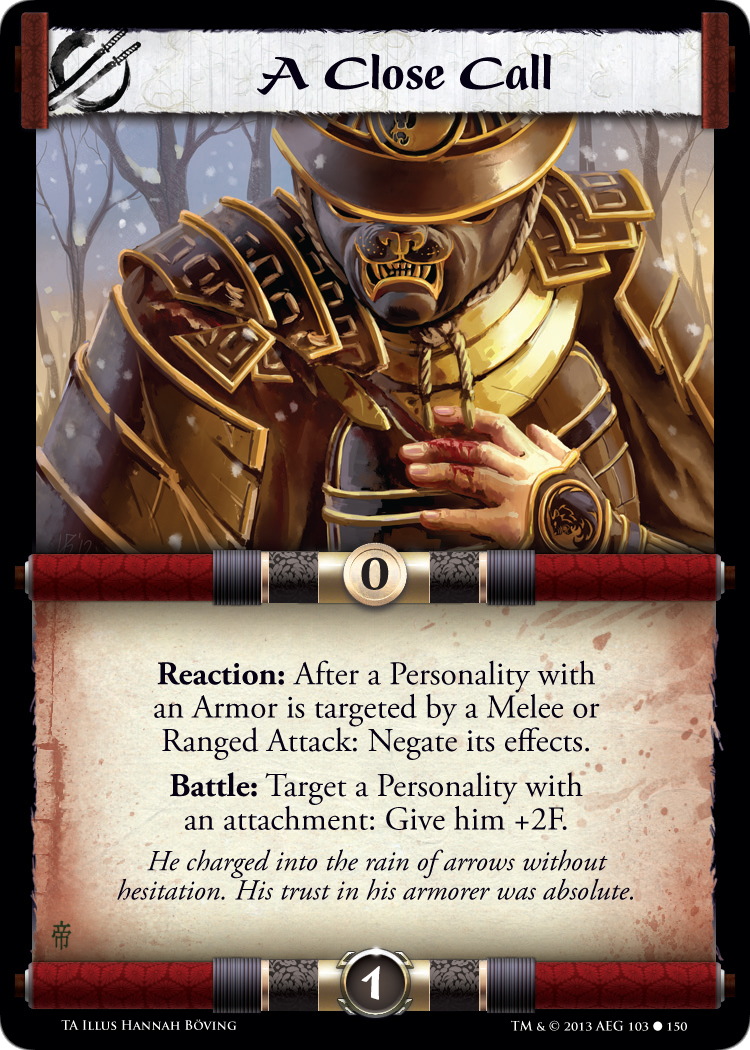
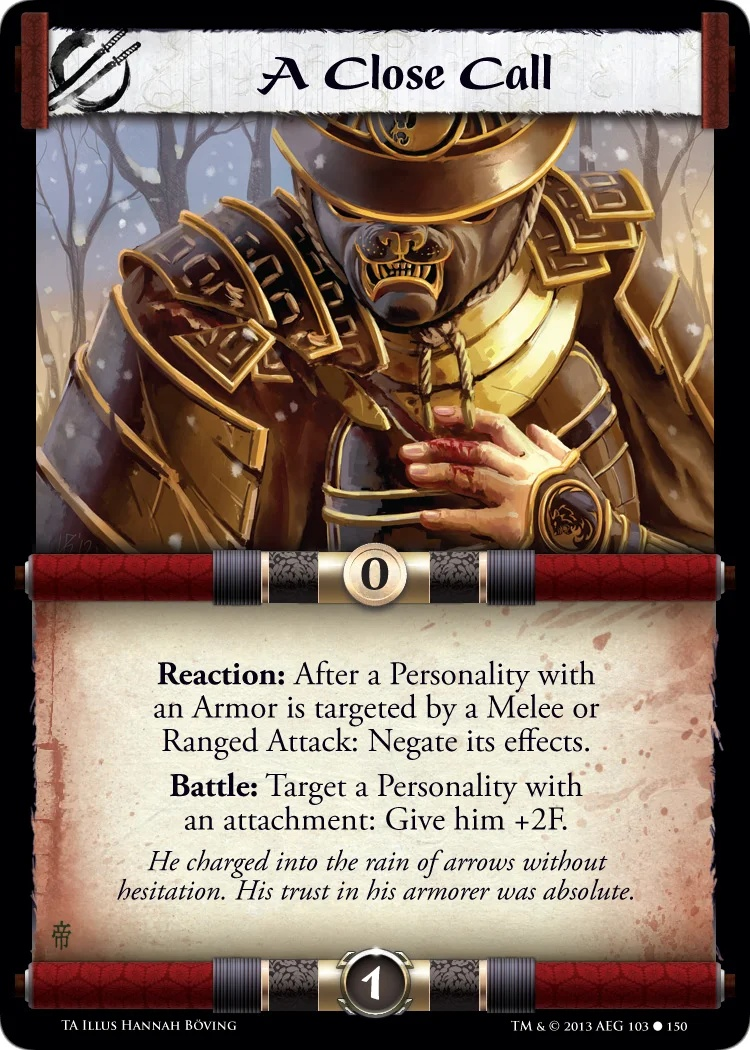
Update code references and art for the Strategy wave 11 rename
Completes the previous commit: CardCatalog.cs/PublishedContent.cs/
L5R.Core.csproj now reference StrategyWave11/strategy-wave-11 throughout,
the regenerated JSON's own Profile field matches, the decision doc's wave
number is corrected, and the real card art (now that the scan cache is
available in this worktree) replaces the placeholder.

Verified: dotnet run --project tests/L5R.Core.Tests, 178/178 core, 52/52
published, 9/9 deck-format, 10/10 deck-workshop passed.

diff --git a/src/L5R.Core/CardCatalog.cs b/src/L5R.Core/CardCatalog.cs
@@ -214,6 +214,6 @@ public static class CardCatalog
         // definitions. Every id it references already exists via Snapshot/the waves below (and stays
         // there per policy -- cards are never removed except by explicit direction), so adding it here
         // would only risk a duplicate-key conflict, never add real coverage.
-        return cards.Concat(PublishedContent.Snapshot.Cards).Concat(PublishedContent.VanillaWave1.Cards).Concat(PublishedContent.StrongholdWave1.Cards).Concat(PublishedContent.StrongholdWave2.Cards).Concat(PublishedContent.StrongholdWave3.Cards).Concat(PublishedContent.PersonalityWave1.Cards).Concat(PublishedContent.PersonalityWave2.Cards).Concat(PublishedContent.PersonalityWave3.Cards).Concat(PublishedContent.FollowerWave1.Cards).Concat(PublishedContent.PersonalityWave4.Cards).Concat(PublishedContent.PersonalityWave5.Cards).Concat(PublishedContent.StrategyWave1.Cards).Concat(PublishedContent.FollowerWave2.Cards).Concat(PublishedContent.FollowerWave3.Cards).Concat(PublishedContent.FollowerWave4.Cards).Concat(PublishedContent.FollowerWave5.Cards).Concat(PublishedContent.ItemWave1.Cards).Concat(PublishedContent.StrategyWave2.Cards).Concat(PublishedContent.PersonalityWave6.Cards).Concat(PublishedContent.FollowerWave6.Cards).Concat(PublishedContent.PersonalityWave7.Cards).Concat(PublishedContent.PersonalityWave8.Cards).Concat(PublishedContent.StrategyWave3.Cards).Concat(PublishedContent.FollowerWave7.Cards).Concat(PublishedContent.FollowerWave8.Cards).Concat(PublishedContent.ItemWave2.Cards).Concat(PublishedContent.StrategyWave4.Cards).Concat(PublishedContent.StrategyWave5.Cards).Concat(PublishedContent.PersonalityWave9.Cards).Concat(PublishedContent.PersonalityWave10.Cards).Concat(PublishedContent.PersonalityWave11.Cards).Concat(PublishedContent.PersonalityWave12.Cards).Concat(PublishedContent.PersonalityWave13.Cards).Concat(PublishedContent.RingWave1.Cards).Concat(PublishedContent.PersonalityWave14.Cards).Concat(PublishedContent.FollowerWave9.Cards).Concat(PublishedContent.PersonalityWave15.Cards).Concat(PublishedContent.PersonalityWave16.Cards).Concat(PublishedContent.EventWave1.Cards).Concat(PublishedContent.RegionWave1.Cards).Concat(PublishedContent.CelestialWave1.Cards).Concat(PublishedContent.SpellWave1.Cards).Concat(PublishedContent.PersonalityWave17.Cards).Concat(PublishedContent.EventWave2.Cards).Concat(PublishedContent.StrategyWave6.Cards).Concat(PublishedContent.PersonalityWave18.Cards).Concat(PublishedContent.HoldingWave1.Cards).Concat(PublishedContent.ItemWave3.Cards).Concat(PublishedContent.RegionWave2.Cards).Concat(PublishedContent.SpellWave2.Cards).Concat(PublishedContent.StrategyWave7.Cards).Concat(PublishedContent.StrategyWave8.Cards).Concat(PublishedContent.StrategyWave9.Cards).Concat(PublishedContent.FollowerWave10.Cards).Concat(PublishedContent.FollowerWave11.Cards).Concat(PublishedContent.StrategyWave10.Cards).ToDictionary(c => c.Id, StringComparer.Ordinal);
+        return cards.Concat(PublishedContent.Snapshot.Cards).Concat(PublishedContent.VanillaWave1.Cards).Concat(PublishedContent.StrongholdWave1.Cards).Concat(PublishedContent.StrongholdWave2.Cards).Concat(PublishedContent.StrongholdWave3.Cards).Concat(PublishedContent.PersonalityWave1.Cards).Concat(PublishedContent.PersonalityWave2.Cards).Concat(PublishedContent.PersonalityWave3.Cards).Concat(PublishedContent.FollowerWave1.Cards).Concat(PublishedContent.PersonalityWave4.Cards).Concat(PublishedContent.PersonalityWave5.Cards).Concat(PublishedContent.StrategyWave1.Cards).Concat(PublishedContent.FollowerWave2.Cards).Concat(PublishedContent.FollowerWave3.Cards).Concat(PublishedContent.FollowerWave4.Cards).Concat(PublishedContent.FollowerWave5.Cards).Concat(PublishedContent.ItemWave1.Cards).Concat(PublishedContent.StrategyWave2.Cards).Concat(PublishedContent.PersonalityWave6.Cards).Concat(PublishedContent.FollowerWave6.Cards).Concat(PublishedContent.PersonalityWave7.Cards).Concat(PublishedContent.PersonalityWave8.Cards).Concat(PublishedContent.StrategyWave3.Cards).Concat(PublishedContent.FollowerWave7.Cards).Concat(PublishedContent.FollowerWave8.Cards).Concat(PublishedContent.ItemWave2.Cards).Concat(PublishedContent.StrategyWave4.Cards).Concat(PublishedContent.StrategyWave5.Cards).Concat(PublishedContent.PersonalityWave9.Cards).Concat(PublishedContent.PersonalityWave10.Cards).Concat(PublishedContent.PersonalityWave11.Cards).Concat(PublishedContent.PersonalityWave12.Cards).Concat(PublishedContent.PersonalityWave13.Cards).Concat(PublishedContent.RingWave1.Cards).Concat(PublishedContent.PersonalityWave14.Cards).Concat(PublishedContent.FollowerWave9.Cards).Concat(PublishedContent.PersonalityWave15.Cards).Concat(PublishedContent.PersonalityWave16.Cards).Concat(PublishedContent.EventWave1.Cards).Concat(PublishedContent.RegionWave1.Cards).Concat(PublishedContent.CelestialWave1.Cards).Concat(PublishedContent.SpellWave1.Cards).Concat(PublishedContent.PersonalityWave17.Cards).Concat(PublishedContent.EventWave2.Cards).Concat(PublishedContent.StrategyWave6.Cards).Concat(PublishedContent.PersonalityWave18.Cards).Concat(PublishedContent.HoldingWave1.Cards).Concat(PublishedContent.ItemWave3.Cards).Concat(PublishedContent.RegionWave2.Cards).Concat(PublishedContent.SpellWave2.Cards).Concat(PublishedContent.StrategyWave7.Cards).Concat(PublishedContent.StrategyWave8.Cards).Concat(PublishedContent.StrategyWave9.Cards).Concat(PublishedContent.FollowerWave10.Cards).Concat(PublishedContent.FollowerWave11.Cards).Concat(PublishedContent.StrategyWave11.Cards).ToDictionary(c => c.Id, StringComparer.Ordinal);
     }
 }

diff --git a/src/L5R.Core/PublishedContent.cs b/src/L5R.Core/PublishedContent.cs
@@ -1132,19 +1132,19 @@ public static class PublishedContent
     /// targeting a card in the unit" family -- reacts only to a Ranged/Melee Attack targeting an
     /// Armor-wearing Personality, reusing the existing before-attack-resolves Reaction window
     /// verbatim instead of the new unit-targeting watcher.</summary>
-    public static PublishedSnapshot StrategyWave10 { get; } = LoadStrategyWave10();
+    public static PublishedSnapshot StrategyWave11 { get; } = LoadStrategyWave11();
 
-    private static PublishedSnapshot LoadStrategyWave10()
+    private static PublishedSnapshot LoadStrategyWave11()
     {
-        var snapshot = Load("L5R.Published.StrategyWave10.json", "strategy-wave-10", requireDecks: false);
+        var snapshot = Load("L5R.Published.StrategyWave11.json", "strategy-wave-11", requireDecks: false);
         if(snapshot.Cards.Length != 1)
-            throw new InvalidOperationException("Unexpected strategy-wave-10 card count.");
+            throw new InvalidOperationException("Unexpected strategy-wave-11 card count.");
         foreach(var card in snapshot.Cards)
             if(card.Type != CardType.Strategy || card.Text.Length == 0)
-                throw new InvalidOperationException($"strategy-wave-10 card is not a textful Strategy: {card.Id}");
+                throw new InvalidOperationException($"strategy-wave-11 card is not a textful Strategy: {card.Id}");
         var others = Snapshot.Cards.Concat(VanillaWave1.Cards).Concat(StrongholdWave1.Cards).Concat(StrongholdWave2.Cards).Concat(StrongholdWave3.Cards).Concat(PersonalityWave1.Cards).Concat(PersonalityWave2.Cards).Concat(PersonalityWave3.Cards).Concat(FollowerWave1.Cards).Concat(PersonalityWave4.Cards).Concat(PersonalityWave5.Cards).Concat(StrategyWave1.Cards).Concat(FollowerWave2.Cards).Concat(FollowerWave3.Cards).Concat(FollowerWave4.Cards).Concat(FollowerWave5.Cards).Concat(ItemWave1.Cards).Concat(StrategyWave2.Cards).Concat(PersonalityWave6.Cards).Concat(FollowerWave6.Cards).Concat(PersonalityWave7.Cards).Concat(PersonalityWave8.Cards).Concat(StrategyWave3.Cards).Concat(FollowerWave7.Cards).Concat(FollowerWave8.Cards).Concat(ItemWave2.Cards).Concat(StrategyWave4.Cards).Concat(StrategyWave5.Cards).Concat(PersonalityWave9.Cards).Concat(PersonalityWave10.Cards).Concat(PersonalityWave11.Cards).Concat(PersonalityWave12.Cards).Concat(PersonalityWave13.Cards).Concat(RingWave1.Cards).Concat(PersonalityWave14.Cards).Concat(FollowerWave9.Cards).Concat(PersonalityWave15.Cards).Concat(PersonalityWave16.Cards).Concat(EventWave1.Cards).Concat(RegionWave1.Cards).Concat(CelestialWave1.Cards).Concat(SpellWave1.Cards).Concat(PersonalityWave17.Cards).Concat(EventWave2.Cards).Concat(StrategyWave6.Cards).Concat(PersonalityWave18.Cards).Concat(HoldingWave1.Cards).Concat(ItemWave3.Cards).Concat(RegionWave2.Cards).Concat(SpellWave2.Cards).Concat(StrategyWave7.Cards).Concat(StrategyWave8.Cards).Concat(StrategyWave9.Cards).Concat(FollowerWave10.Cards).Concat(FollowerWave11.Cards).Select(c=>c.Id);
         if(snapshot.Cards.Select(c=>c.Id).Intersect(others).Any())
-            throw new InvalidOperationException("strategy-wave-10 duplicates a card already published elsewhere.");
+            throw new InvalidOperationException("strategy-wave-11 duplicates a card already published elsewhere.");
         return snapshot;
     }
 

diff --git a/tools/content/package_strategy_wave_11.py b/tools/content/package_strategy_wave_11.py
@@ -1,5 +1,5 @@
 #!/usr/bin/env python3
-"""Build Strategy wave 10 (issue #278): A Close Call, a narrower proof case for the same "any action
+"""Build Strategy wave 11 (issue #278): A Close Call, a narrower proof case for the same "any action
 targeting a card in the unit" family the general in-play unit-targeting Reaction primitive builds --
 unlike Champion of Thunder/Brothers of Goemon (Follower wave 11), A Close Call reacts only to a
 Ranged/Melee Attack targeting an Armor-wearing Personality, and reuses the EXISTING before-attack-
@@ -19,7 +19,7 @@ from pathlib import Path
 from package_vanilla_wave import build_definition_fields
 
 ROOT = Path(__file__).resolve().parents[2]
-PROFILE = "strategy-wave-10"
+PROFILE = "strategy-wave-11"
 
 ABILITIES: dict[int, list[str]] = {
     10359: ["a-close-call-negate", "a-close-call-boost"],  # A Close Call
@@ -51,5 +51,5 @@ if __name__ == "__main__":
     import sys
     ids = sys.argv[1:]
     if not ids:
-        raise SystemExit("Usage: package_strategy_wave_10.py oracle-l5r-<id> [...]")
+        raise SystemExit("Usage: package_strategy_wave_11.py oracle-l5r-<id> [...]")
     print(json.dumps(package(ids)))

diff --git a/docs/decisions/2026-09-17-in-play-unit-targeting-reaction-primitive.md b/docs/decisions/2026-09-17-in-play-unit-targeting-reaction-primitive.md
@@ -162,7 +162,7 @@ entries per card plus two Target categories `own-unit-member`/`personality-with-
 new `training-unit-force-penalty` fixture ability), `src/L5R.Core/MatchEngine.cs` (`DestroyUnits`'s
 negation check now goes through `NegatesEffect`; the new `mantis-clan-discount` Equip term, the same
 shape `lion-clan-discount` already established), `tools/env.sh` (the Godot-glob `set -e` fix),
-`PublishedContent.cs`/`CardCatalog.cs`/`L5R.Core.csproj` (Follower wave 11, Strategy wave 10), two new
+`PublishedContent.cs`/`CardCatalog.cs`/`L5R.Core.csproj` (Follower wave 11, Strategy wave 11), two new
 `tools/content/package_follower_wave_11.py` / `package_strategy_wave_10.py`,
 `tools/content/build_card_inventory.py` (removed the three now-stale `BLOCKERS` entries for
 oracle-l5r-1167/1292/10359), `docs/CARD_INVENTORY.xlsx` (regenerated, 320 wired),
